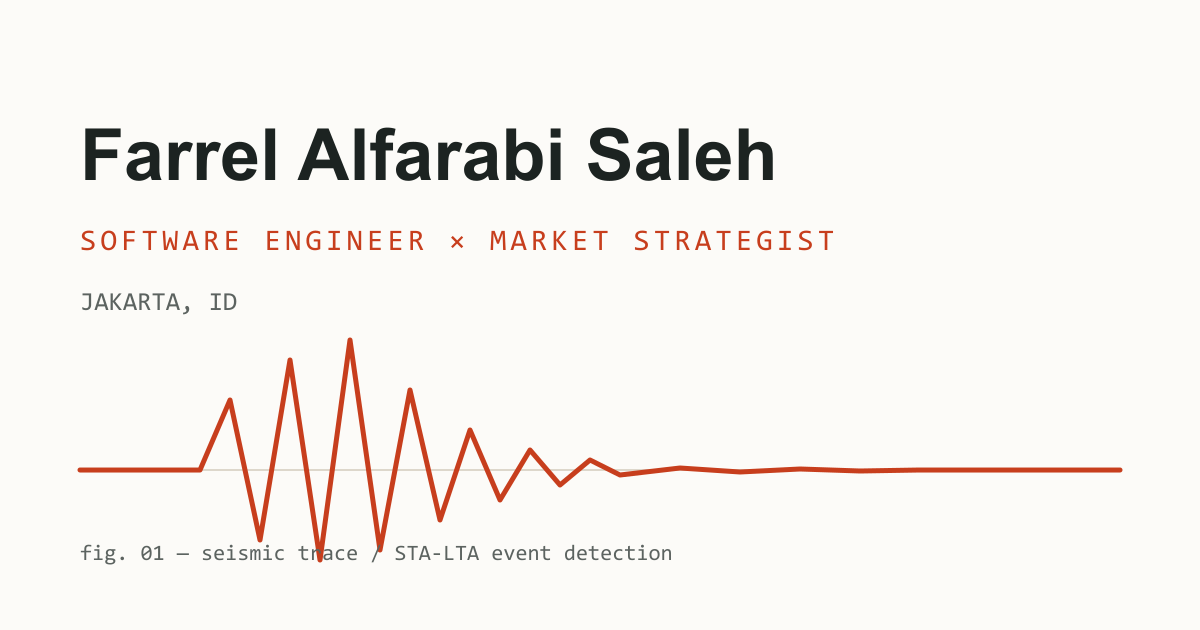
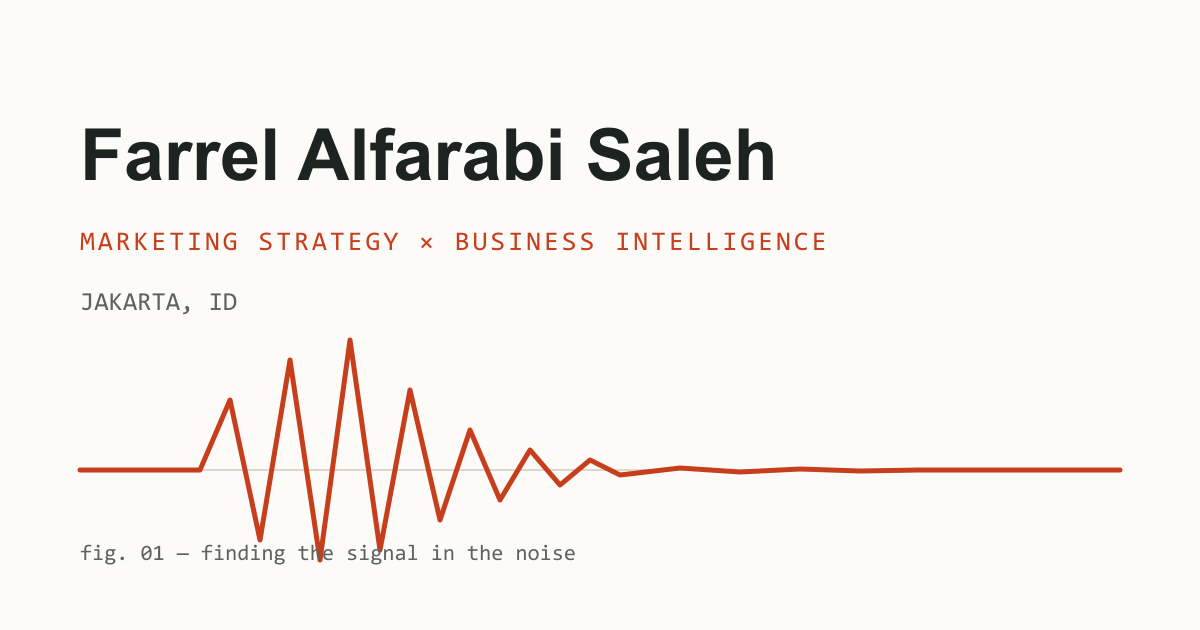
feat: refocus positioning on YMT commercial/BI work for recruiter audience
- Positioning line is now 'Marketing Strategy x Business Intelligence'
  everywhere (hero eyebrow, title/OG/twitter meta, regenerated og.png);
  engineering reframed as the differentiator, not the lead
- Hero: new headline + YMT-led subline, added mono stats row
  (00K+/mo ops, 4 ASEAN markets, 7 campaigns, 9-month promotion)
- Experience section (renamed from Case Studies): YMT ADS entry moved
  to top slot, then Freeport, BMKG, court app
- About rewritten to lead with YMT story; KB Bank now appears only as
  a timeline line
- Skills reordered: BI & Analytics first, Marketing & Strategy second,
  Digital & Engineering third; AS/400-COBOL line dropped
- Contact copy retargeted at BI/marketing/digital roles

Changed region(s): [[0.0617, 0.3619, 0.7092, 0.4222], [0.1542, 0.8444, 0.555, 0.9048]]

diff --git a/src/data.js b/src/data.js
@@ -11,7 +11,7 @@ import aboutImageSmall from "./images/about-680.webp";
 export const portfolioData = {
   // ---- identity ----
   name: "Farrel Alfarabi Saleh",
-  role: "Software Engineer & Market Strategist",
+  role: "Marketing Strategy × Business Intelligence",
   email: "farrel.abi.saleh@gmail.com",
   location: "Jakarta, Indonesia",
   linkedin: "https://www.linkedin.com/in/farrel-alfarabi-saleh-606722207/",
@@ -19,9 +19,9 @@ export const portfolioData = {
 
   // ---- document meta (mirrored statically in public/index.html) ----
   meta: {
-    title: "Farrel Alfarabi Saleh — Software Engineer & Market Strategist",
+    title: "Farrel Alfarabi Saleh — Marketing Strategy & Business Intelligence",
     description:
-      "Software engineer and market strategist in Jakarta. React dashboards for earthquake monitoring, AutoML interfaces for mining operations, and go-to-market strategy for ASEAN brands.",
+      "Marketing strategist and business-intelligence analyst in Jakarta, with an engineer's toolkit. Ran $200K+/month campaign operations across four ASEAN markets for brands like Unilever and Nestlé — and builds his own dashboards.",
   },
 
   // ---- ui chrome ----
@@ -35,31 +35,37 @@ export const portfolioData = {
   nav: [
     { label: "About", href: "#about" },
     { label: "Capabilities", href: "#skills" },
-    { label: "Case Studies", href: "#projects" },
+    { label: "Experience", href: "#projects" },
     { label: "Contact", href: "#contact", cta: true },
   ],
 
   // ---- hero ----
   hero: {
-    eyebrow: "Software Engineer × Market Strategist — Jakarta, ID",
-    headline: "I build software, and the business case for it.",
+    eyebrow: "Marketing Strategy × Business Intelligence — Jakarta, ID",
+    headline: "Data in. Strategy out. I build the tools in between.",
     subline:
-      "Computer science graduate and MBA in Marketing, both from Universitas Indonesia. I've shipped an earthquake-monitoring dashboard for BMKG, AutoML interfaces for Freeport Indonesia, and commercial strategy for consumer brands across ASEAN.",
+      "Most recently at YMT ADS: campaign operations and CRM intelligence for a $200K+/month portfolio across four ASEAN markets, with brand partners including Unilever and Nestlé — promoted to Commercial Strategy Manager within the year. MBA in Marketing + BSc in Computer Science, Universitas Indonesia.",
     ctas: [
-      { label: "View case studies", href: "#projects", primary: true },
+      { label: "View experience", href: "#projects", primary: true },
       { label: "Get in touch", href: "#contact" },
     ],
-    traceCaption: "fig. 01 — seismic trace / STA-LTA event detection",
+    stats: [
+      { value: "$200K+", label: "monthly revenue ops managed" },
+      { value: "4", label: "ASEAN markets" },
+      { value: "7", label: "concurrent brand campaigns" },
+      { value: "9 mo", label: "staff → strategy manager" },
+    ],
+    traceCaption: "fig. 01 — finding the signal in the noise",
   },
 
   // ---- about ----
   about: {
     label: "About",
     index: "01",
-    title: "Engineer's toolkit, strategist's brief",
+    title: "Strategist's brief, engineer's toolkit",
     paragraphs: [
-      "I work in the space between the codebase and the market. On one side: React dashboards that detect earthquakes, machine-learning interfaces for mining operators, and mobile apps built for the courtroom. On the other: nine months running campaign operations for ASEAN consumer brands at YMT ADS, which ended in a promotion to Commercial Strategy Manager.",
-      "These days I develop core banking systems and application integrations in Jakarta. I've also taken a modular-housing venture concept to a Top-10 finalist finish at UI Incubate 2024 — market research, business model, and investor pitch included.",
+      "I'm a marketing strategist and business-intelligence operator with an unusual edge: I write production code. At YMT ADS I ran campaign operations for consumer brands across four ASEAN markets — consolidating fragmented CRM data into KPI reporting leadership actually used, and coordinating seven concurrent campaigns with partners like Unilever and Nestlé. Nine months in, that work earned a promotion to Commercial Strategy Manager.",
+      "The engineering background is what makes the analytics real. When a campaign needs a tracker, a pipeline, or a dashboard, I build it — the same skills that shipped an earthquake-detection dashboard and an AutoML interface for Freeport Indonesia. MBA in Marketing and BSc in Computer Science, both from Universitas Indonesia; Top-10 finalist at UI Incubate 2024 with a venture concept I took from market research to investor pitch.",
     ],
     imageAlt:
       "Farrel Alfarabi Saleh at his desk, holding a tablet with wireframes, code editor on the monitor behind him",
@@ -98,34 +104,34 @@ export const portfolioData = {
   },
   skillCategories: [
     {
-      title: "Software Engineering",
+      title: "Business Intelligence & Analytics",
       skills: [
-        "React.js & JavaScript",
-        "Python & Django",
-        "SQL",
-        "REST API integration",
-        "AS/400 / IBM i · COBOL analysis",
-        "Flutter & Firebase",
-      ],
-    },
-    {
-      title: "Data & Analytics",
-      skills: [
-        "Data cleaning & preparation",
         "KPI dashboards & performance reporting",
         "Campaign analytics",
+        "CRM data consolidation",
         "Regression analysis & statistical testing",
+        "Data cleaning & preparation",
         "Advanced Excel / Google Sheets",
       ],
     },
     {
-      title: "Strategy & Delivery",
+      title: "Marketing & Strategy",
       skills: [
         "Commercial strategy",
         "Market research & media planning",
+        "Brand partner management",
         "Cross-functional coordination",
         "Stakeholder communication",
-        "Figma (working knowledge)",
+      ],
+    },
+    {
+      title: "Digital & Engineering",
+      skills: [
+        "SQL",
+        "React.js & JavaScript",
+        "Python & Django",
+        "REST API integration",
+        "Flutter & Firebase",
       ],
     },
   ],
@@ -135,7 +141,7 @@ export const portfolioData = {
     index: "04",
     label: "Contact",
     title: "Open to the right problem",
-    body: "Engineering role, strategy brief, or something in between — if it sits where systems meet the market, I want to hear about it. Email is fastest.",
+    body: "Business intelligence, marketing strategy, or a digital role in between — if it needs someone who can read the data and build the tooling, I want to hear about it. Email is fastest.",
     links: [
       { label: "Email me", href: "mailto:farrel.abi.saleh@gmail.com", primary: true },
       { label: "LinkedIn", href: "https://www.linkedin.com/in/farrel-alfarabi-saleh-606722207/", external: true },
@@ -146,23 +152,23 @@ export const portfolioData = {
   // ---- case studies ----
   projectsSection: {
     index: "03",
-    label: "Case Studies",
-    title: "Selected work, problem to result",
+    label: "Experience",
+    title: "Recent work, problem to result",
     fieldLabels: { problem: "Problem", built: "Built", result: "Result" },
   },
   projects: [
     {
-      title: "Earthquake Monitoring Dashboard",
-      org: "BMKG",
-      year: "—",
-      role: null,
+      title: "ASEAN Campaign Operations & CRM Intelligence",
+      org: "YMT ADS",
+      year: "2025",
+      role: "Operations & Marketing Staff → Commercial Strategy Manager",
       problem:
-        "Analysts monitoring seismic activity work against continuous waveform streams — scanning them by eye is slow, and weak events are easy to miss.",
+        "A $200K+/month revenue operation across four ASEAN countries ran on fragmented CRM data and siloed reporting — seven concurrent brand campaigns with no unified KPI view.",
       built:
-        "A React dashboard that visualizes incoming seismic traces and runs STA/LTA (short-term / long-term average) detection to flag candidate events automatically, so analysts review triggered signals instead of raw streams.",
+        "Centralized tracking: consolidated regional CRM data and daily utilization reports into KPI dashboards, established a structured planning cadence, and ran the communication line between technical teams and brand partners including Unilever and Nestlé.",
       result:
-        "Automated first-pass event detection for the monitoring workflow — flagged events surface with their trace context, ready for analyst confirmation.",
-      stack: ["React", "JavaScript", "STA/LTA detection", "Time-series visualization"],
+        "Leadership got real-time cross-country KPI visibility, enterprise pipeline deals accelerated — and the role grew into Commercial Strategy Manager after nine months.",
+      stack: ["CRM", "KPI Dashboards", "Campaign Operations", "Stakeholder Management"],
     },
     {
       title: "AutoML Frontend for Mining Operations",
@@ -178,6 +184,19 @@ export const portfolioData = {
       stack: ["React.js", "REST APIs", "AutoML", "BI visualization"],
     },
     {
+      title: "Earthquake Monitoring Dashboard",
+      org: "BMKG",
+      year: "—",
+      role: null,
+      problem:
+        "Analysts monitoring seismic activity work against continuous waveform streams — scanning them by eye is slow, and weak events are easy to miss.",
+      built:
+        "A React dashboard that visualizes incoming seismic traces and runs STA/LTA (short-term / long-term average) detection to flag candidate events automatically, so analysts review triggered signals instead of raw streams.",
+      result:
+        "Automated first-pass event detection for the monitoring workflow — flagged events surface with their trace context, ready for analyst confirmation.",
+      stack: ["React", "JavaScript", "STA/LTA detection", "Time-series visualization"],
+    },
+    {
       title: "Court Proceedings Monitoring App",
       org: "Universitas Indonesia — Faculty of Law",
       year: "2023",
@@ -189,19 +208,6 @@ export const portfolioData = {
       result:
         "A working mobile monitoring tool that replaced scattered manual notes with a synchronized, queryable record.",
       stack: ["Flutter", "Dart", "Firebase Auth", "Cloud Firestore"],
-    },
-    {
-      title: "ASEAN Campaign Operations & CRM Intelligence",
-      org: "YMT ADS",
-      year: "2025",
-      role: "Operations & Marketing Staff → Commercial Strategy Manager",
-      problem:
-        "A $200K+/month revenue operation across four ASEAN countries ran on fragmented CRM data and siloed reporting — seven concurrent brand campaigns with no unified KPI view.",
-      built:
-        "Centralized tracking: consolidated regional CRM data and daily utilization reports, established a structured planning cadence, and ran the communication line between technical teams and brand partners including Unilever and Nestlé.",
-      result:
-        "Leadership got real-time cross-country KPI visibility, enterprise pipeline deals accelerated — and the role grew into Commercial Strategy Manager after nine months.",
-      stack: ["CRM", "KPI Dashboards", "Campaign Operations", "Stakeholder Management"],
     },
   ],
 };

diff --git a/public/index.html b/public/index.html
@@ -4,21 +4,21 @@
     <meta charset="UTF-8">
     <meta name="viewport" content="width=device-width, initial-scale=1.0">
     <!-- Copy below mirrors `meta` in src/data.js — keep them in sync -->
-    <title>Farrel Alfarabi Saleh — Software Engineer & Market Strategist</title>
-    <meta name="description" content="Software engineer and market strategist in Jakarta. React dashboards for earthquake monitoring, AutoML interfaces for mining operations, and go-to-market strategy for ASEAN brands.">
+    <title>Farrel Alfarabi Saleh — Marketing Strategy & Business Intelligence</title>
+    <meta name="description" content="Marketing strategist and business-intelligence analyst in Jakarta, with an engineer's toolkit. Ran $200K+/month campaign operations across four ASEAN markets for brands like Unilever and Nestlé — and builds his own dashboards.">
     <meta name="theme-color" content="#FCFBF8">
     <link rel="icon" href="%PUBLIC_URL%/favicon.svg" type="image/svg+xml">
 
     <meta property="og:type" content="website">
-    <meta property="og:title" content="Farrel Alfarabi Saleh — Software Engineer & Market Strategist">
-    <meta property="og:description" content="Software engineer and market strategist in Jakarta. React dashboards for earthquake monitoring, AutoML interfaces for mining operations, and go-to-market strategy for ASEAN brands.">
+    <meta property="og:title" content="Farrel Alfarabi Saleh — Marketing Strategy & Business Intelligence">
+    <meta property="og:description" content="Marketing strategist and business-intelligence analyst in Jakarta, with an engineer's toolkit. Ran $200K+/month campaign operations across four ASEAN markets for brands like Unilever and Nestlé — and builds his own dashboards.">
     <meta property="og:url" content="https://www.farrelalfarabisaleh.my.id/">
     <meta property="og:image" content="https://www.farrelalfarabisaleh.my.id/og.png">
     <meta property="og:image:width" content="1200">
     <meta property="og:image:height" content="630">
     <meta name="twitter:card" content="summary_large_image">
-    <meta name="twitter:title" content="Farrel Alfarabi Saleh — Software Engineer & Market Strategist">
-    <meta name="twitter:description" content="Software engineer and market strategist in Jakarta. React dashboards for earthquake monitoring, AutoML interfaces for mining operations, and go-to-market strategy for ASEAN brands.">
+    <meta name="twitter:title" content="Farrel Alfarabi Saleh — Marketing Strategy & Business Intelligence">
+    <meta name="twitter:description" content="Marketing strategist and business-intelligence analyst in Jakarta, with an engineer's toolkit. Ran $200K+/month campaign operations across four ASEAN markets for brands like Unilever and Nestlé — and builds his own dashboards.">
     <meta name="twitter:image" content="https://www.farrelalfarabisaleh.my.id/og.png">
 
     <style>

diff --git a/src/components/Hero/Hero.css b/src/components/Hero/Hero.css
@@ -27,6 +27,47 @@
   gap: var(--s-2);
 }
 
+/* ---- headline stats ---- */
+
+.hero-stats {
+  list-style: none;
+  display: grid;
+  grid-template-columns: repeat(2, 1fr);
+  gap: var(--s-3) var(--s-3);
+  margin: var(--s-5) 0 0;
+  padding: var(--s-3) 0 0;
+  border-top: 1px solid var(--hairline);
+}
+
+@media (min-width: 768px) {
+  .hero-stats {
+    grid-template-columns: repeat(4, 1fr);
+  }
+}
+
+.hero-stat {
+  display: flex;
+  flex-direction: column;
+  gap: 4px;
+}
+
+.hero-stat-value {
+  font-family: var(--font-mono);
+  font-size: clamp(1.35rem, 2.5vw, 1.75rem);
+  font-weight: 600;
+  color: var(--signal);
+  line-height: 1.1;
+}
+
+.hero-stat-label {
+  font-family: var(--font-mono);
+  font-size: 11px;
+  font-weight: 500;
+  text-transform: uppercase;
+  letter-spacing: 0.1em;
+  color: var(--muted);
+}
+
 /* ---- staged entrance ---- */
 
 @keyframes hero-rise {
@@ -44,6 +85,7 @@
 .hero-headline,
 .hero-subline,
 .hero-ctas,
+.hero-stats,
 .seismo-figure {
   animation: hero-rise 0.55s ease-out both;
 }
@@ -60,8 +102,12 @@
   animation-delay: 0.24s;
 }
 
-.seismo-figure {
+.hero-stats {
   animation-delay: 0.32s;
+}
+
+.seismo-figure {
+  animation-delay: 0.4s;
 }
 
 /* ---- seismogram ---- */

diff --git a/src/components/Hero/Hero.jsx b/src/components/Hero/Hero.jsx
@@ -37,6 +37,17 @@ export default function Hero({ data }) {
           ))}
         </div>
 
+        {hero.stats && (
+          <ul className="hero-stats">
+            {hero.stats.map((stat) => (
+              <li key={stat.label} className="hero-stat">
+                <span className="hero-stat-value">{stat.value}</span>
+                <span className="hero-stat-label">{stat.label}</span>
+              </li>
+            ))}
+          </ul>
+        )}
+
         <figure className="seismo-figure">
           <svg
             className="seismo"
